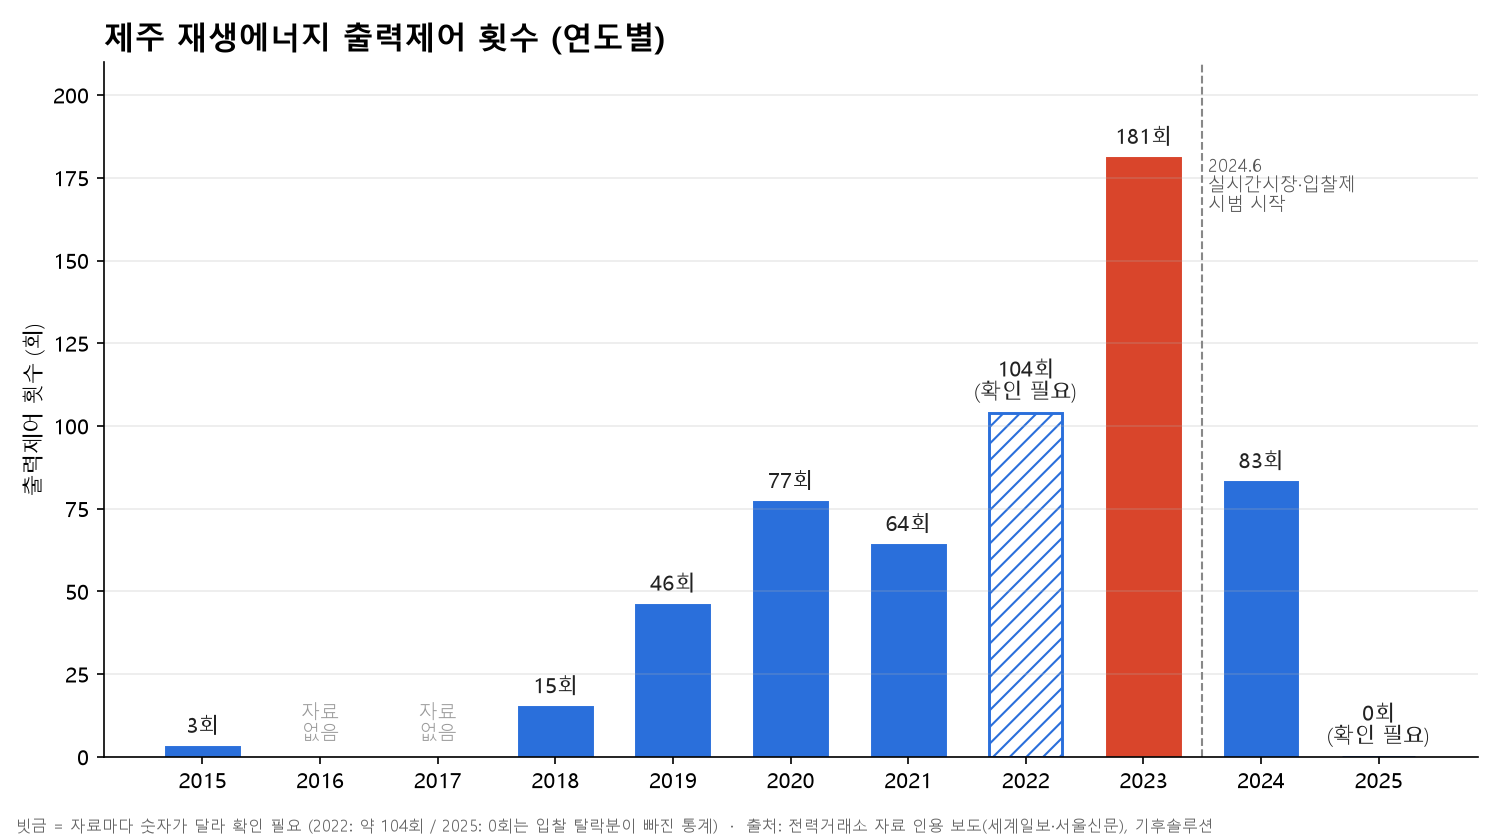
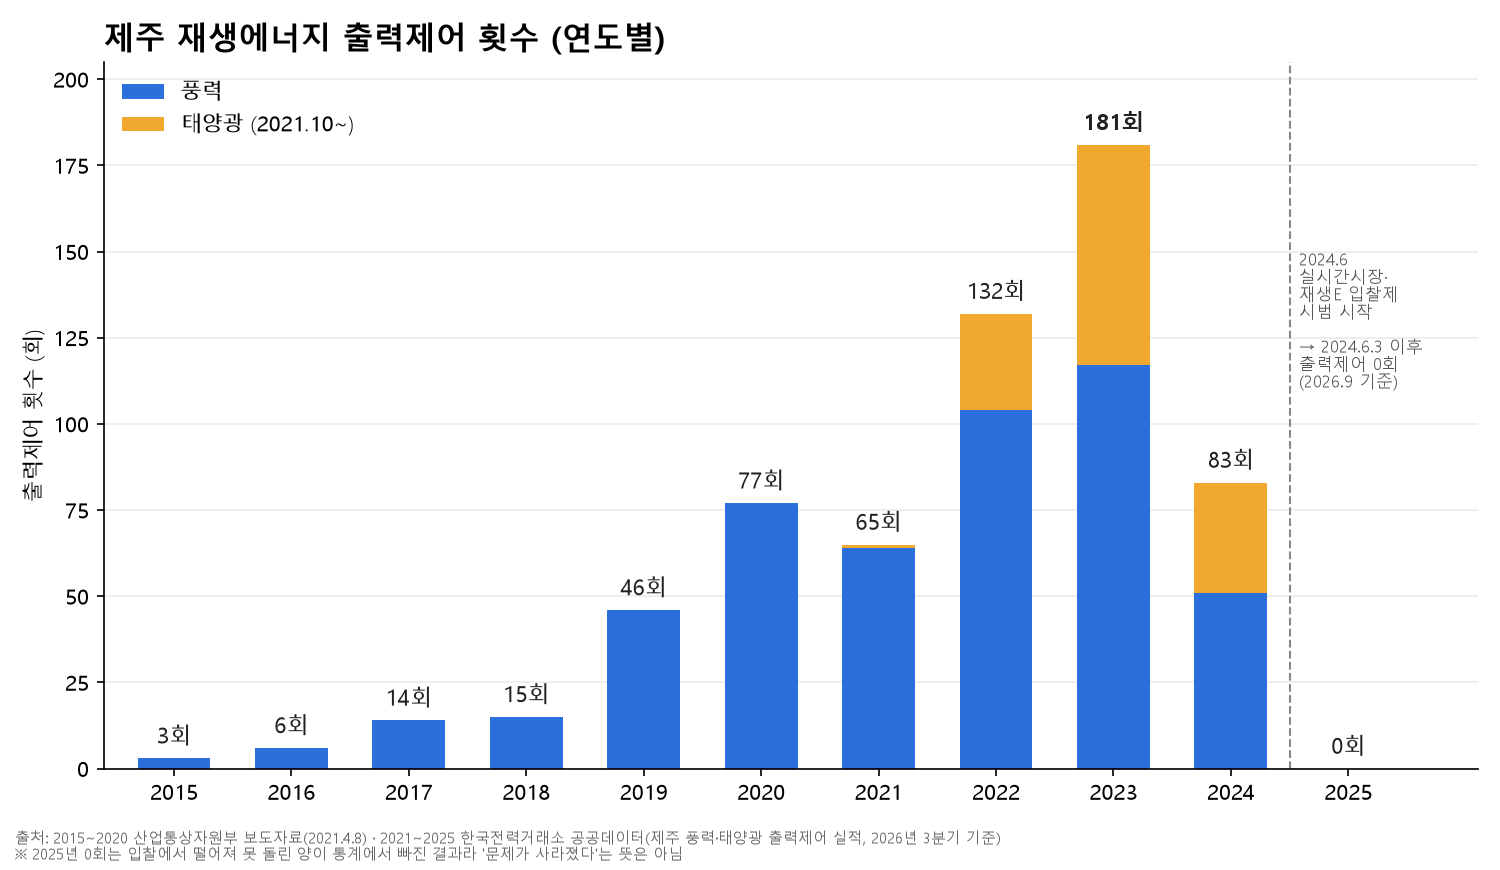
출력제어 연도별 횟수를 산업부·전력거래소 원자료로 확인해 그래프와 공부 노트를 바로잡음

diff --git a/학업/전기/분산에너지_리포트_구상.md b/학업/전기/분산에너지_리포트_구상.md
@@ -44,7 +44,7 @@
 | 법 | **분산에너지 활성화 특별법** 2024년 6월 시행 | 크리링 기억 — 확인 필요 |
 | 설비 | 사업 개시한 태양광 1,653곳·553MW, 풍력 25곳·418MW | 노컷뉴스 |
 | 신규 접속 중단 | 한전이 2024년 9월부터 제주 변전소 16곳을 모두 "계통관리변전소"로 지정 → **새 재생에너지 사업 허가 전면 중단** | 노컷뉴스 |
-| 출력제어 | 풍력은 2015년 처음(3회) → 2019년 46회 → 2020년 77회. 2021년부터 태양광도 대상. **2024년 10월까지 누적 497회** | 세계일보, 산업부 자료(확인 필요) |
+| 출력제어 | (원자료 확인 2026-11-23) 2015년 3회 → 16년 6 → 17년 14 → 18년 15 → 19년 46 → 20년 77 → 21년 65(풍력 64+태양광 1) → 22년 132(104+28) → **23년 181(117+64)** → 24년 83(51+32, 전부 6/3 이전) → 25년 0. 2021.10부터 태양광도 대상. 누적 497회는 **풍력만** 센 숫자(태양광 포함 622회). 그래프 `제주_출력제어_연도별.png` | 2015~20: 산업부 보도자료(2021.4.8) / 2021~: 한국전력거래소 공공데이터 "전국 태양광 풍력 제어횟수 및 제주 풍력 제어량"(26년 3분기 기준) |
 | 앞으로 | 2030년 출력제어 연 330회 가능(2023 전력망 선진화 포럼), 2034년 연 326회·손실 5,100억 원(제주에너지공사 추산) | 전자신문, 기후솔루션 자료 |
 | 분산에너지 특화지역 | **2025년 11월 5일 제주가 분산에너지 특화지역(분산특구, 신산업 활성화 유형: V2G·ESS·P2X)으로 지정** (※ "제주 전역"은 기사로 확인 안 됨, 2026-11-23 검색)(전남·제주·부산 강서·경기 의왕) | 머니투데이, MTN |
 | 특구 실증 | VPP 기반 V2G 36MW + ESS 60MW + P2X 57MW = 153MW | 다음(뉴스) |
@@ -431,7 +431,7 @@
   - **해상풍력:** 전국 최초 공공주도 한동·평대 해상풍력(105MW, 사업비 5,900억 원) 사업자 공모(2023.3).
   - **경영 실적(2022):** 매출 239억 원(+57%), 순이익 63억 원 → 창립 이래 최대, 풍력 가동률 92.9%.
   - "사업전략 Road-map 2030" 발표(2023.1), 주민 설명회 148회.
-- **추진한 것 (계획, 결과 미확인):** 출력제어(2022년 약 104회) 대응으로 P2H(남는 전기→열) 기술개발, 대규모 BESS 실증단지 공모 준비, VPP·DR·ESS 신사업, 동복·행원 풍력 확장(2025년 말~ 준공 목표), 수소 복합발전.
+- **추진한 것 (계획, 결과 미확인):** 출력제어(2022년 132회 = 풍력 104 + 태양광 28) 대응으로 P2H(남는 전기→열) 기술개발, 대규모 BESS 실증단지 공모 준비, VPP·DR·ESS 신사업, 동복·행원 풍력 확장(2025년 말~ 준공 목표), 수소 복합발전.
 - **발표에 쓸 연결고리:** 이 사람이 깔아 둔 VPP 실증·분산에너지사업부가 2025년 제주 분산특구 지정의 바탕. 단, 대부분 출처가 공사 보도자료·인터뷰라 **스스로 말한 성과**임.
 - 출처: 에너지신문 2023-09-25(energy-news.co.kr idxno=89786), 에너지데일리 2023-09-04(idxno=139771), 디지털비즈온 2023-09-04(idxno=2333006), 뉴스제주 2023-05-26(idxno=389417), 인더스트리뉴스 2024-07-31(idxno=54347), 제주환경일보 2023-07-05(idxno=274363), 헤드라인제주(idxno=555388), 제이누리(jnuri.net no=65682)
 
